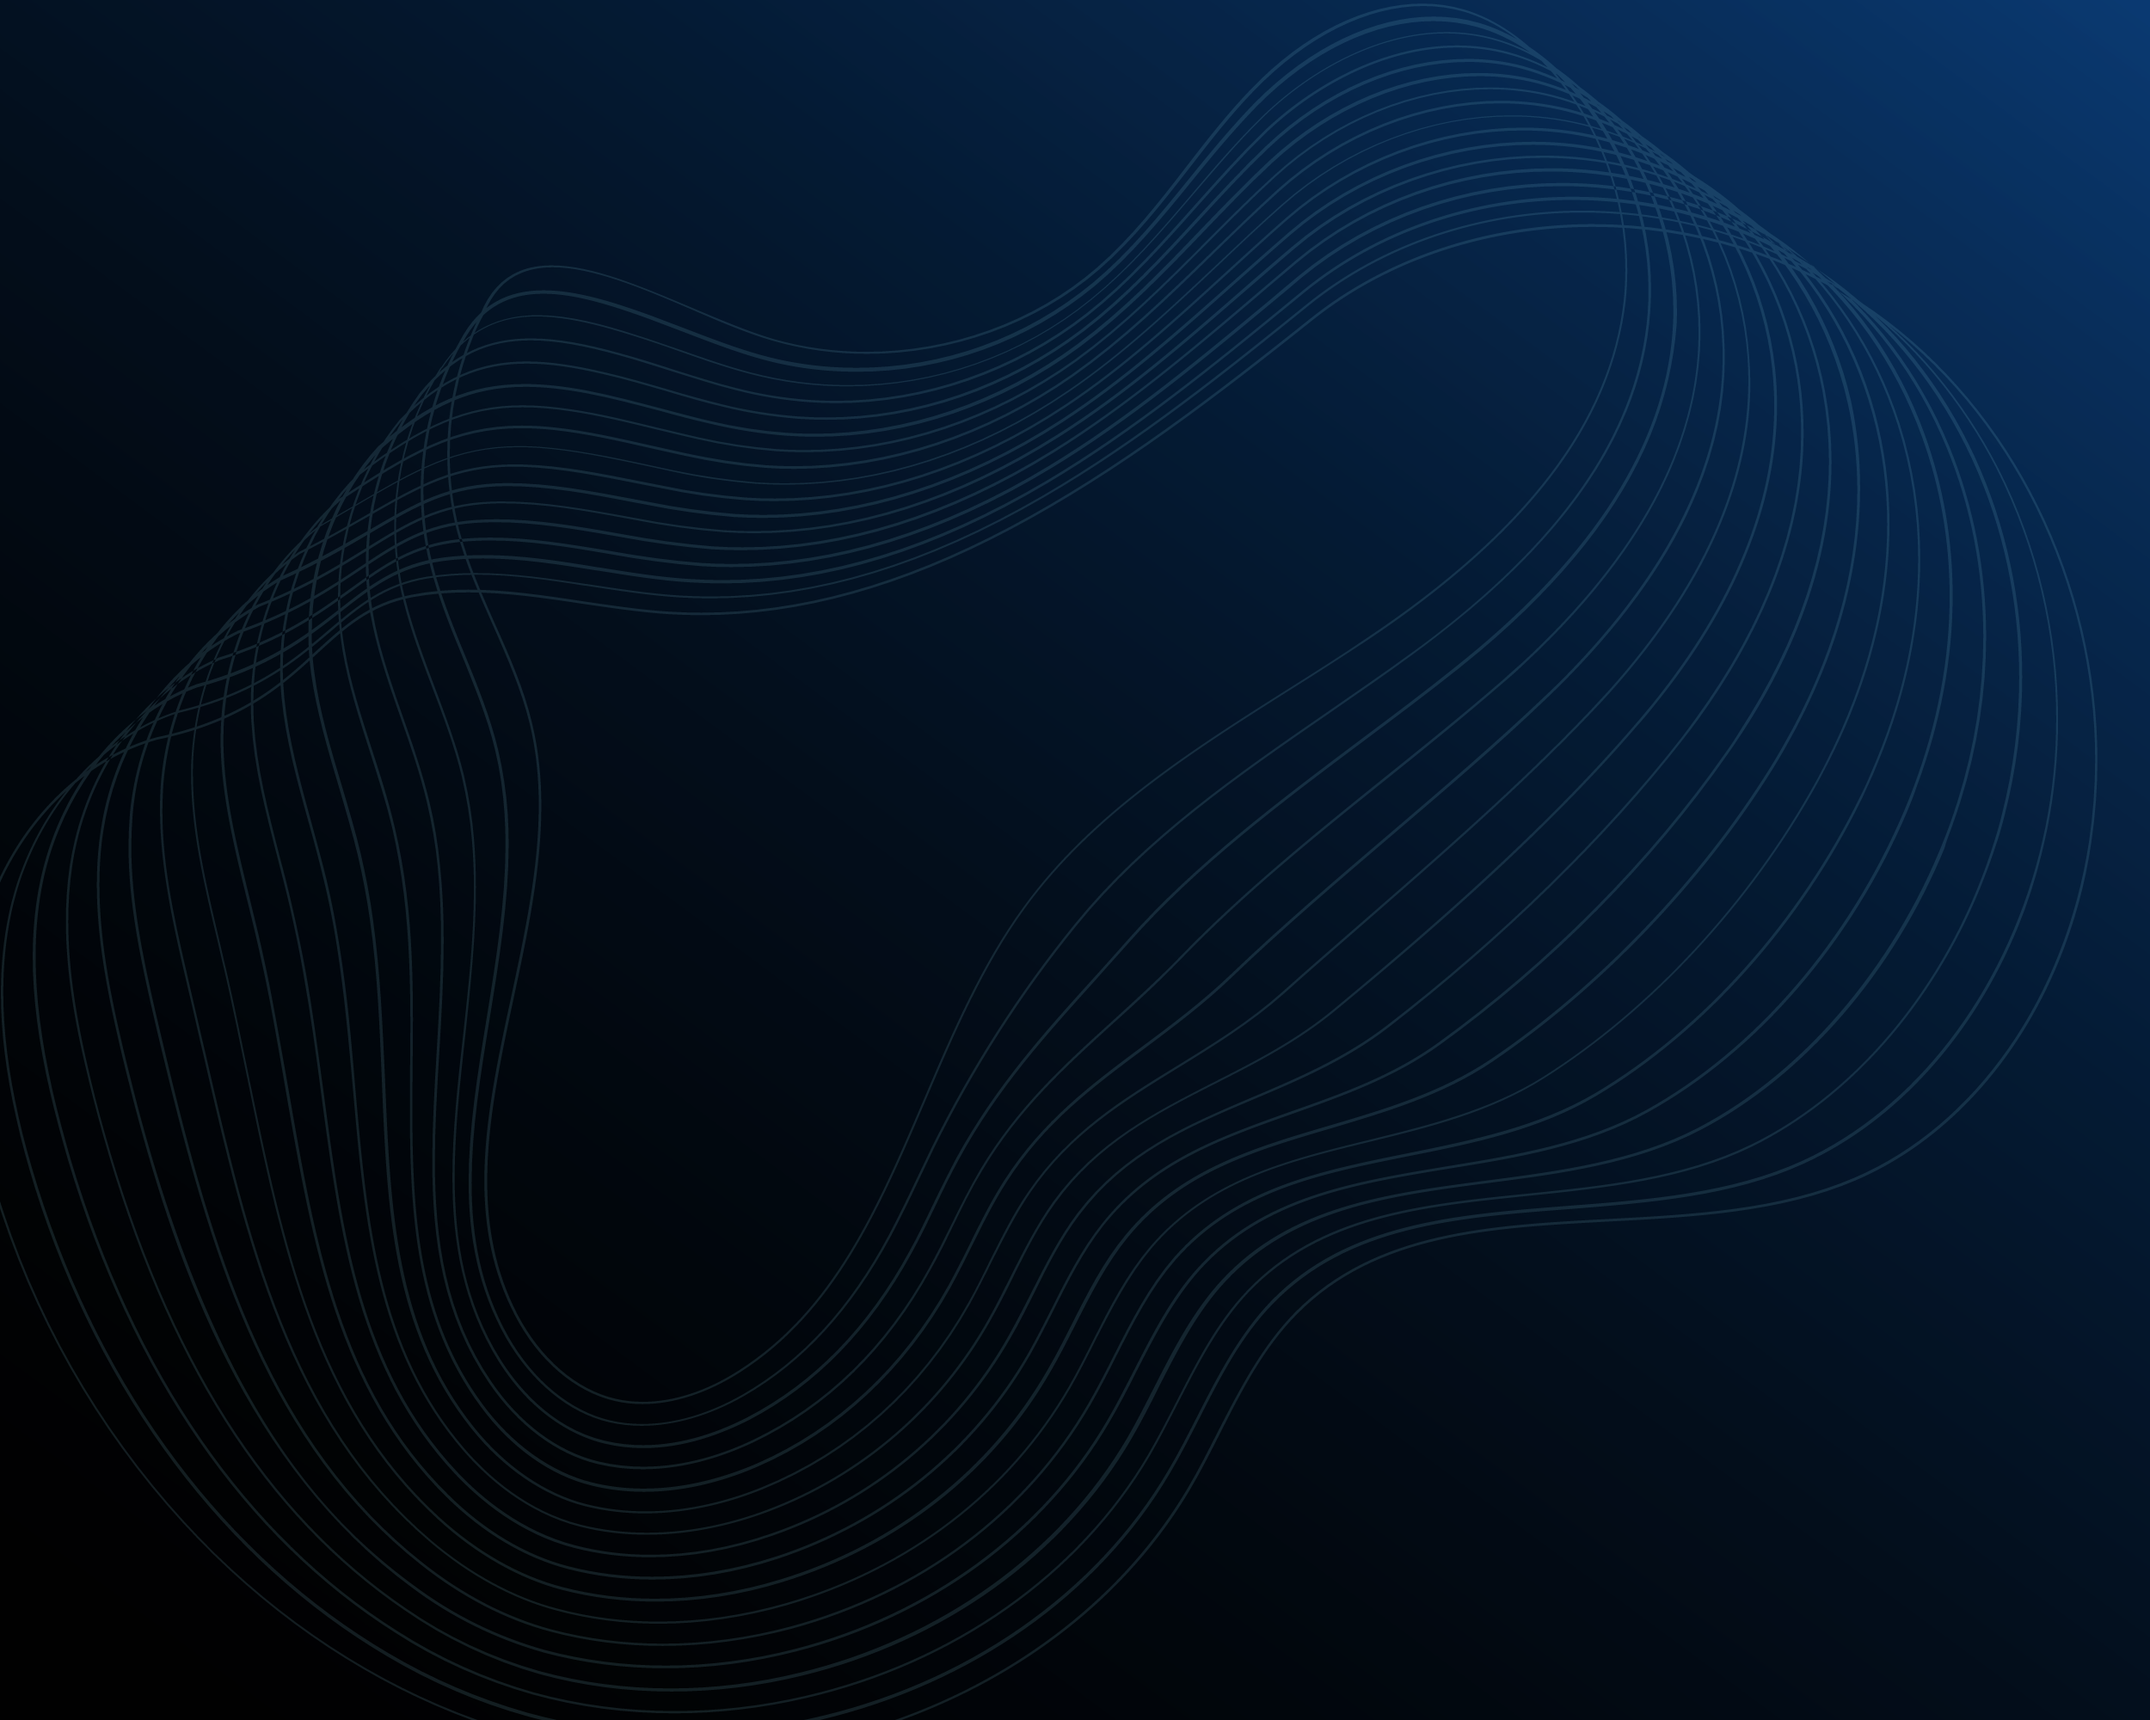
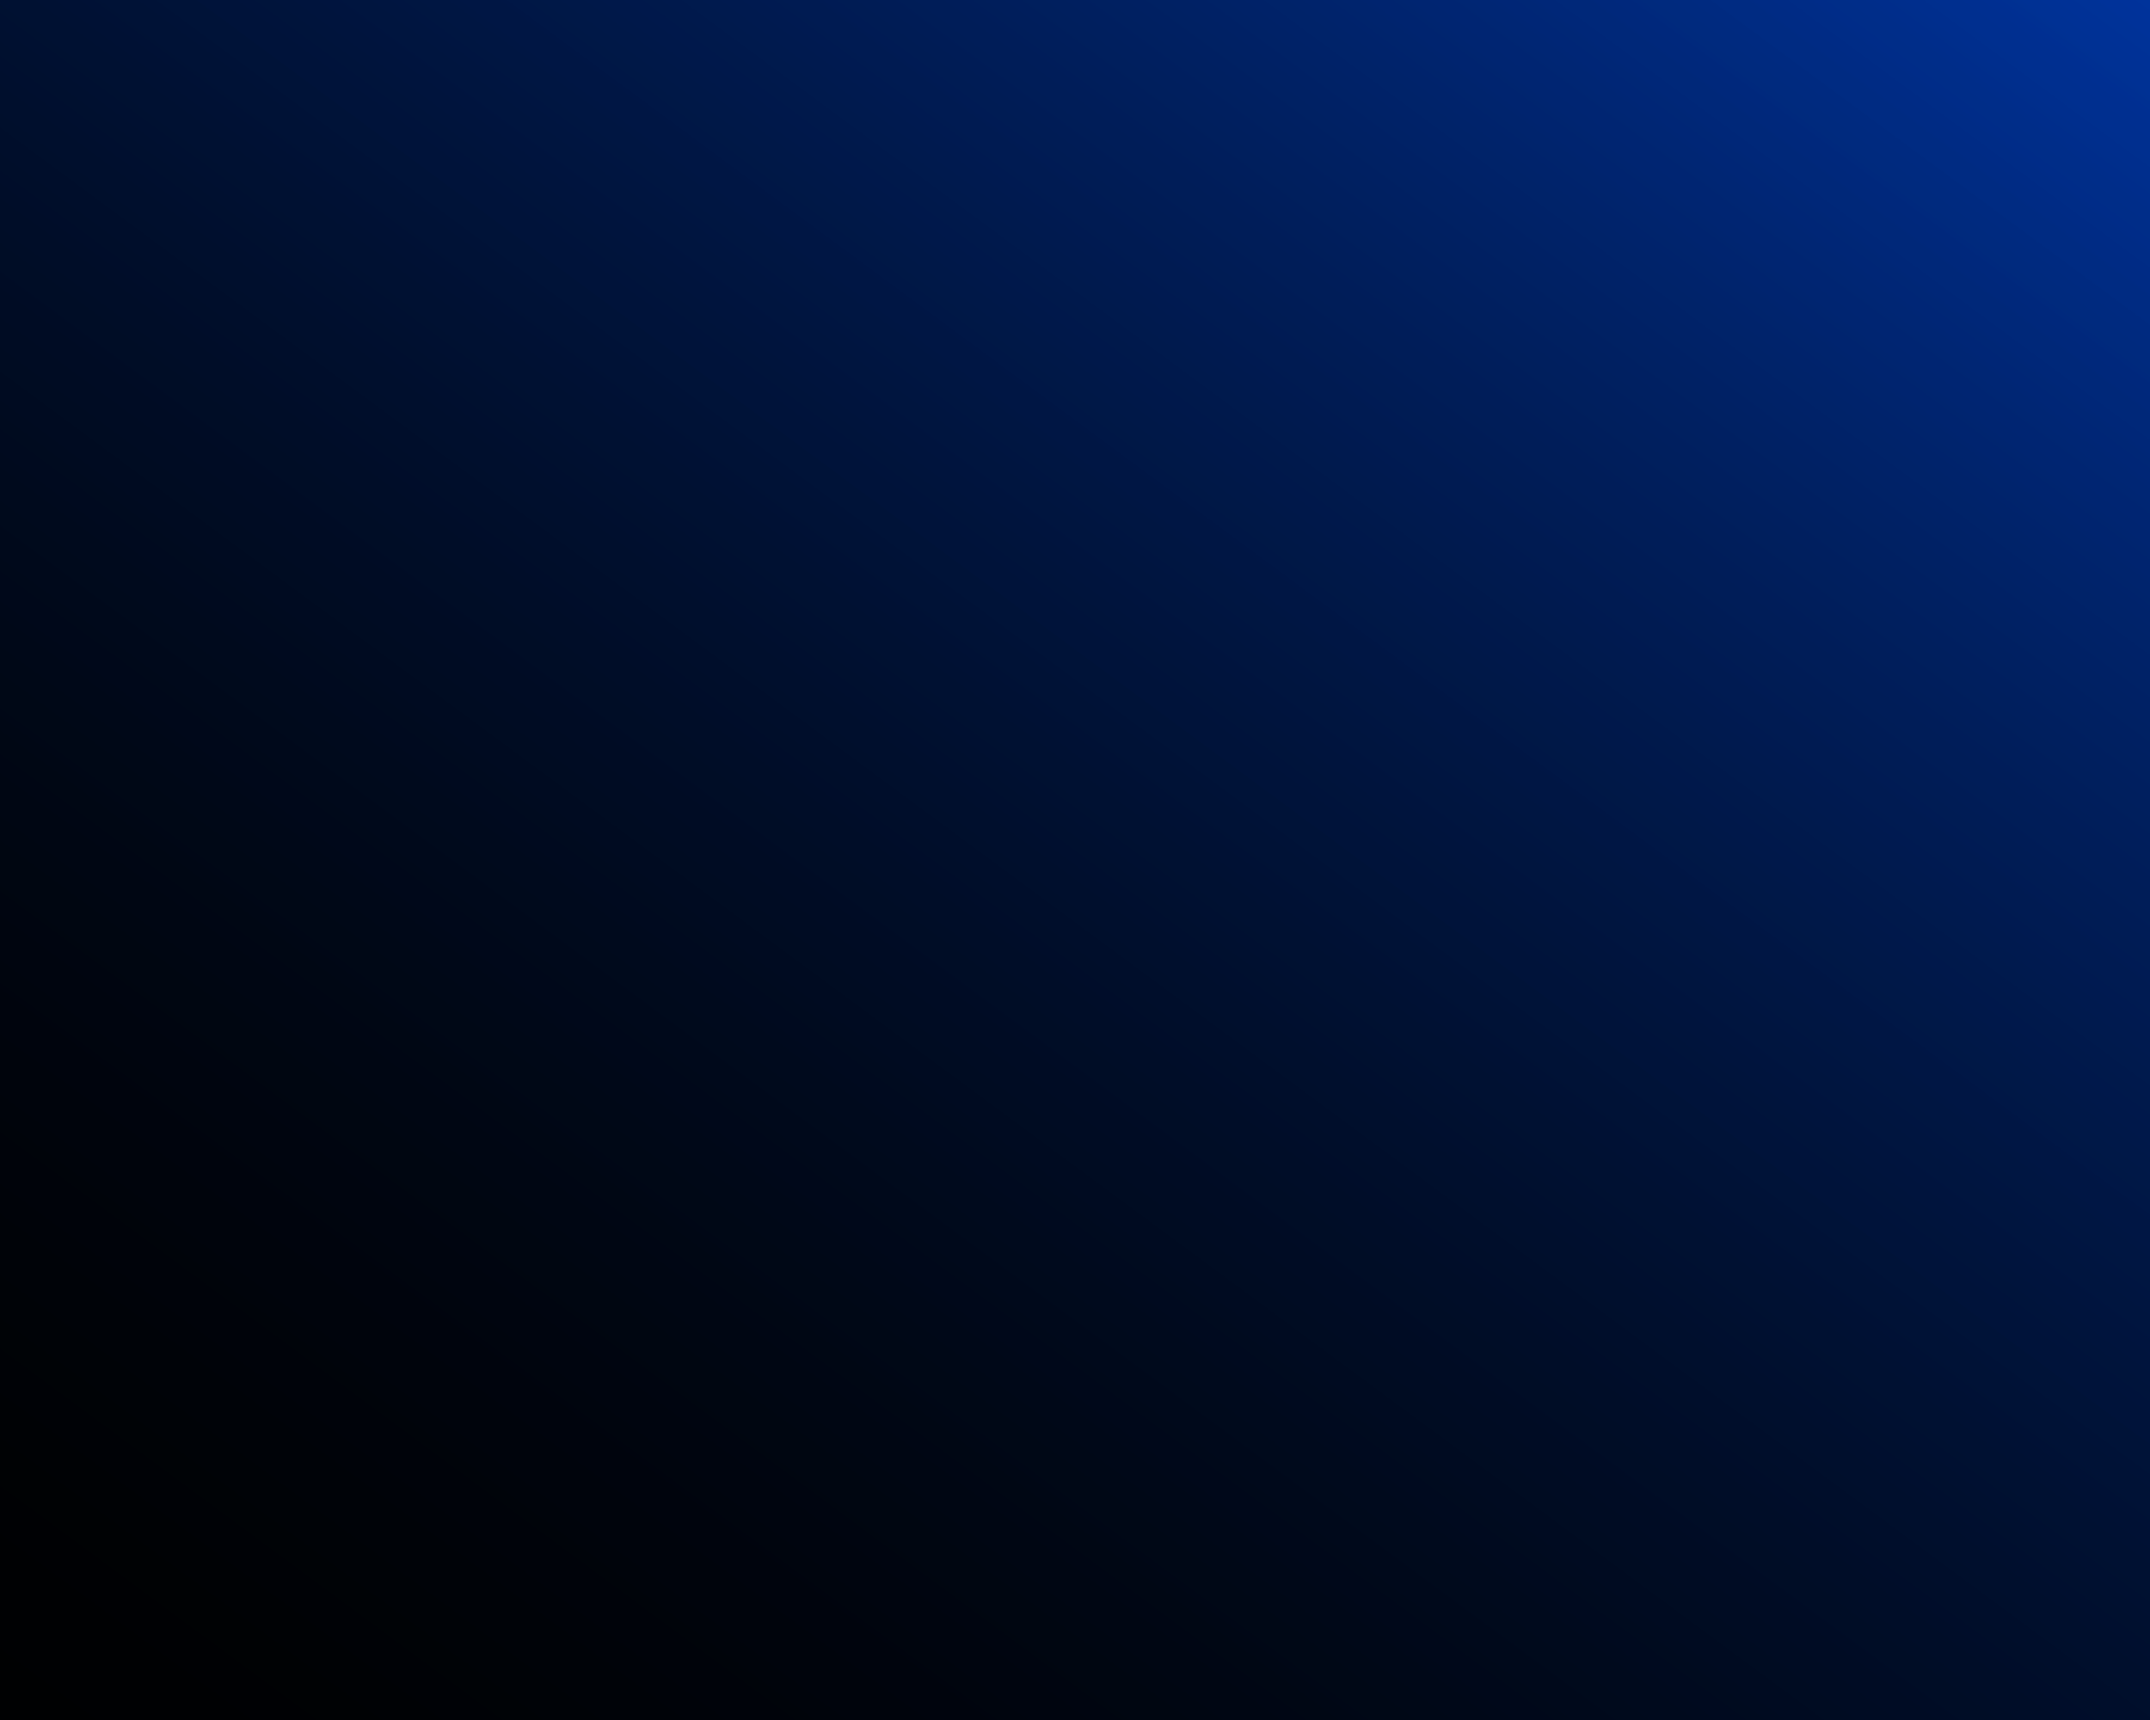
parallax

diff --git a/src/index.css b/src/index.css
@@ -21,7 +21,7 @@ a {
   background-repeat: no-repeat;
   background-attachment: fixed;
   background-position-x: center;
-  background-position-y: center;
+  background-position-y:center;
   position: fixed;
   top: 0;
   bottom:0;
@@ -29,7 +29,7 @@ a {
   right:0;
   z-index:-100;
   opacity: 0%;
-  animation: rotate 0.5s linear infinite;
+  animation: rotate 0.8s linear infinite;
   animation-play-state: paused;
   animation-delay: calc(var(--scroll) * -1s);
   animation-iteration-count: 1;
@@ -39,6 +39,34 @@ a {
 @keyframes rotate {
 to {
   opacity: 100%;
+}
+}
+
+.linesContainer{
+  background-image: url("./assets/lines.png");
+  background-size: 80em;
+  background-repeat: no-repeat;
+  background-attachment: fixed;
+  background-position-x: center;
+  background-position-y:top;
+  position: fixed;
+  top: 0;
+  bottom:0;
+  left:0;
+  right:0;
+  z-index:-90;
+  opacity: 70%;
+  animation: rotate2 0.9s linear infinite;
+  animation-play-state: paused;
+  animation-delay: calc(var(--scroll) * -1s);
+  animation-iteration-count: 1;
+  animation-fill-mode: both;
+}
+
+@keyframes rotate2 {
+to {
+  background-size:120em;
+  background-position-y:bottom;
 }
 }
 
@@ -308,7 +336,7 @@ h2 {
 .dummyContainer{
   width:60%;
   margin: 0 auto 0 auto;
-  height:20em;
+  height:120em;
   display: flex;
   align-items: center;
   justify-content: center;

diff --git a/src/App.jsx b/src/App.jsx
@@ -19,6 +19,7 @@ function App() {
   return (
     <>
     <div className ="masterContainer"></div>
+    <div className ="linesContainer"></div>
       <MainMenu/>
       <div className ="contentContainer" id ="contentContainerId">
         <Header />
